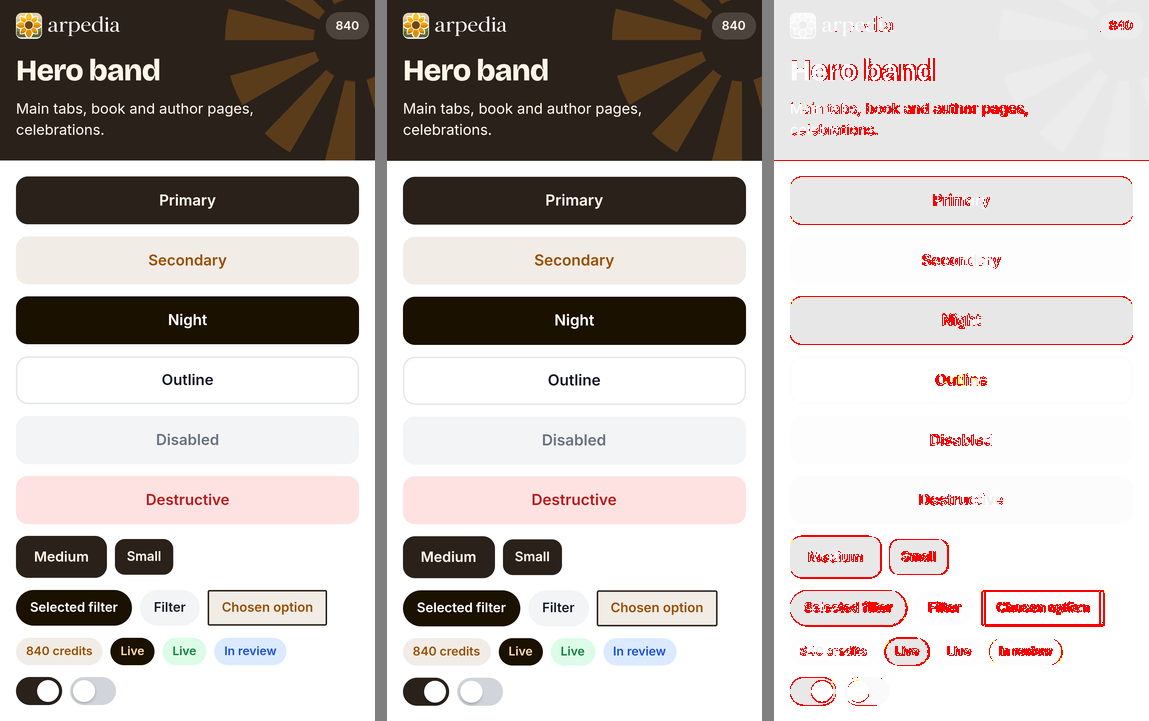
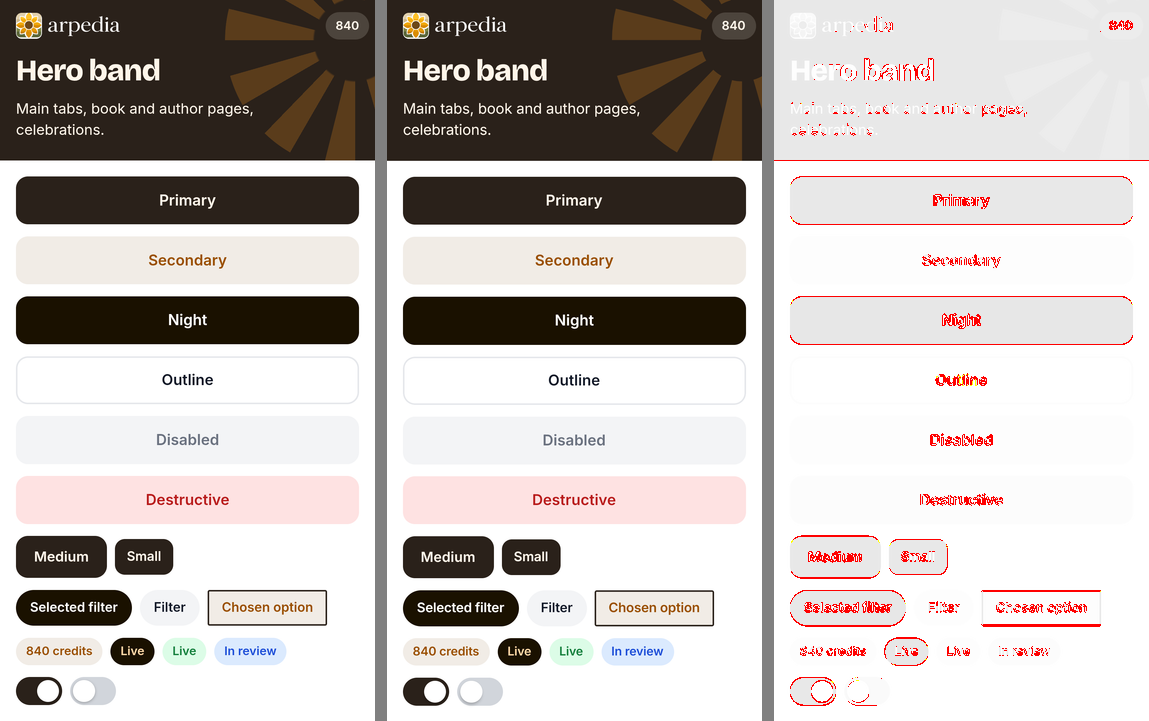
wip(00): Text starts adjustsFontSizeToFit where RN's fit search lands on the wanted size (kit-a 2.9-3.2%, kit-b 3.6%)
RN's adjustSpannableFontToFit rescales sizes by float ratios and truncates on every step, even when
the text fits, so a 37px chip label ended at 32px. Text simulates the search and asks for the start
size whose result is nearest the exact size. Font scale is clamped like maxFontSizeMultiplier.

diff --git a/packages/ui/src/Text.tsx b/packages/ui/src/Text.tsx
@@ -72,7 +72,14 @@ export function Text({
       {...shrink}
       ellipsizeMode={ellipsis ? 'tail' : undefined}
       maxFontSizeMultiplier={oneLine ? 1.6 : undefined}
-      style={[merged, androidLineBox(merged)]}
+      style={[
+        merged,
+        androidLineBox(
+          merged,
+          !!((oneLine && !ellipsis) || rest.adjustsFontSizeToFit),
+          rest.maxFontSizeMultiplier ?? (oneLine ? 1.6 : undefined),
+        ),
+      ]}
       {...rest}
     />
   );
@@ -83,6 +90,9 @@ export function Text({
  * - Font size: RN rounds it UP to whole device pixels (TextAttributes), so 15px at 2.88x draws at
  *   44px instead of 43.2 and labels come out ~2% wider. Snap to the nearest device pixel instead, and
  *   give the remainder back as letter spacing (font size difference × the font's typical advance).
+ *   With adjustsFontSizeToFit, RN's fit search rescales the size by float ratios and truncates on
+ *   every step even when the text fits (TextLayoutManager.adjustSpannableFontToFit), so 37px ends at
+ *   32px. Start from the size whose search ends nearest the wanted size (fitStart).
  * - Line height: RN rounds each line box UP to whole device pixels (CustomLineHeightSpan), so a
  *   30.6px line at 2.88x becomes 89px instead of 88.1 and everything below drifts. Snap to the
  *   nearest device pixel (a hair under it, so the ceil lands there).
@@ -90,14 +100,56 @@ export function Text({
  *   rounded-down descent's pixel over from the ascent and floors the half-leading, while RN ceils
  *   it. Shift the glyphs by the difference so they sit where the prototype draws them.
  */
-function androidLineBox(style: TextStyle): TextStyle | null {
-  const { lineHeight, fontSize, letterSpacing, fontFamily: name, transform } = style;
+function androidLineBox(style: TextStyle, fit: boolean, maxScale?: number): TextStyle | null {
+  const { lineHeight, fontSize, fontFamily: name } = style;
   if (Platform.OS !== 'android' || lineHeight == null) return null;
-  const r = PixelRatio.get() * PixelRatio.getFontScale();
+  const r = PixelRatio.get() * Math.min(PixelRatio.getFontScale(), maxScale ?? Infinity);
   const lhPx = Math.max(1, Math.round(lineHeight * r)) - 0.01;
   const m = name ? fontMetrics[name] : undefined;
   if (!m || fontSize == null) return { lineHeight: lhPx / r };
-  const sizePx = Math.max(1, Math.round(fontSize * r));
+  const nearest = Math.max(1, Math.round(fontSize * r));
+  const [startPx, sizePx] = fit ? fitStart(fontSize * r) : [nearest, nearest];
+  return lineBox(style, m, r, lhPx, startPx, sizePx);
+}
+
+/** The size RN's fit search ends at from `start` px when the text fits (float32, like the Kotlin). */
+function fitResult(start: number, min: number): number {
+  let size = start;
+  let low = min;
+  let prev = start;
+  for (;;) {
+    const cur = Math.floor((low + start + 1) / 2);
+    size = Math.max(Math.trunc(Math.fround(size * Math.fround(cur / prev))), min);
+    if (low === start) return size;
+    low = cur;
+    prev = cur;
+  }
+}
+
+/** [start px to ask for, px it is drawn at]: the drawn size nearest `exact` px. */
+function fitStart(exact: number): [number, number] {
+  const min = Math.trunc(Math.fround(4 * PixelRatio.get()));
+  let best: [number, number] = [Math.ceil(exact), Math.ceil(exact)];
+  let err = Infinity;
+  for (let start = Math.max(min, Math.floor(exact) - 2); start <= Math.ceil(exact) + 6; start++) {
+    const drawn = fitResult(start, min);
+    if (Math.abs(drawn - exact) < err) {
+      err = Math.abs(drawn - exact);
+      best = [start, drawn];
+    }
+  }
+  return best;
+}
+
+function lineBox(
+  style: TextStyle,
+  m: readonly [number, number, number],
+  r: number,
+  lhPx: number,
+  startPx: number,
+  sizePx: number,
+): TextStyle {
+  const { lineHeight = 0, fontSize = 0, letterSpacing, transform } = style;
   const ai = Math.round(sizePx * m[0]);
   const di = Math.round(sizePx * m[1]);
   const android = ai + Math.ceil((Math.ceil(lhPx) - ai - di) / 2);
@@ -112,7 +164,7 @@ function androidLineBox(style: TextStyle): TextStyle | null {
   const chrome = ab + Math.floor((lineHeight * r - ab - db) / 2);
   const shift = (chrome - android) / PixelRatio.get();
   return {
-    fontSize: (sizePx - 0.01) / r,
+    fontSize: (startPx - 0.01) / r,
     letterSpacing: (letterSpacing ?? 0) + (fontSize - sizePx / r) * m[2],
     lineHeight: lhPx / r,
     ...(shift ? { transform: [...(Array.isArray(transform) ? transform : []), { translateY: shift }] } : {}),
